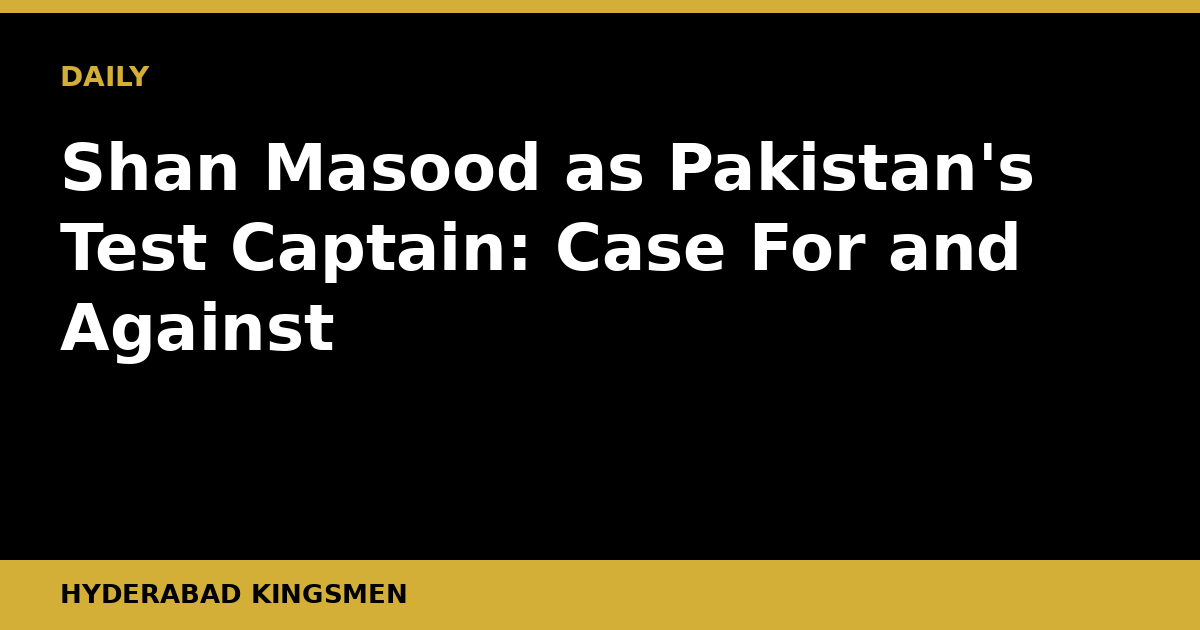
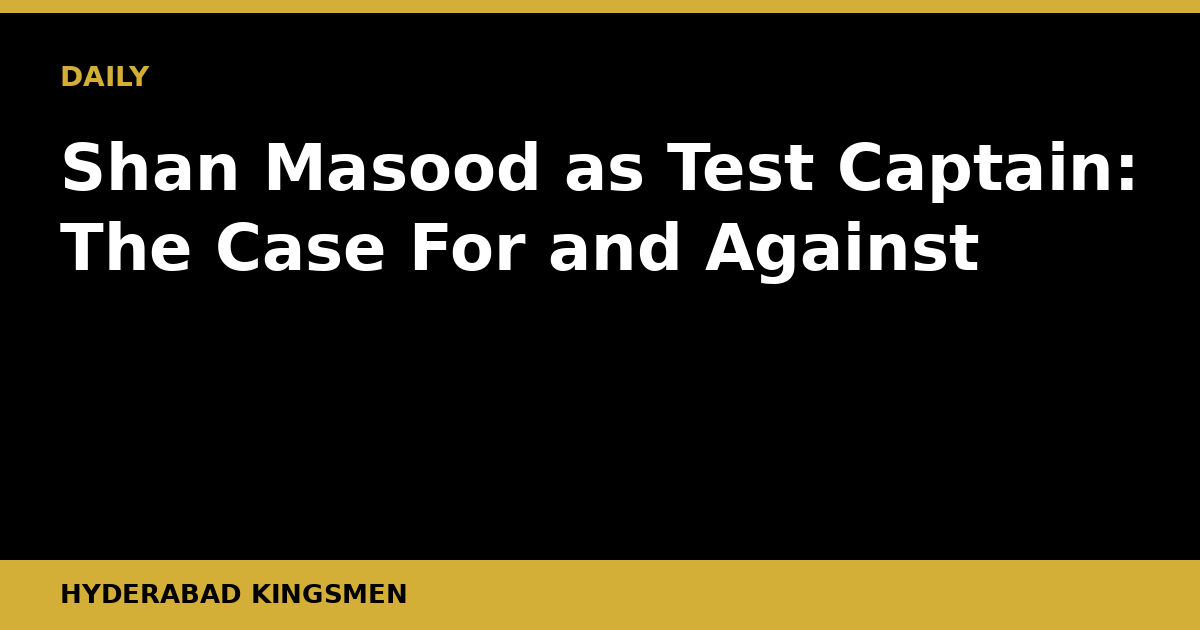
Daily post 2026-08-31

Changed region(s): [[0.0617, 0.3317, 0.8633, 0.4524], [0.555, 0.2111, 0.9558, 0.3317], [0.0308, 0.4825, 0.2775, 0.573]]

diff --git a/content/posts/shan-masood-pakistan-test-captain-case-for-against.md b/content/posts/shan-masood-pakistan-test-captain-case-for-against.md
@@ -1,53 +1,47 @@
 ---
-title: "Shan Masood as Pakistan's Test Captain: Case For and Against"
+title: "Shan Masood as Test Captain: The Case For and Against"
 slug: "shan-masood-pakistan-test-captain-case-for-against"
-date: "2026-07-26T04:22:43+05:00"
+date: "2026-08-31T06:30:13+05:00"
 draft: false
-description: "Shan Masood leads Pakistan into a pivotal WTC 2025-27 cycle. We weigh the arguments for keeping him in charge against the growing calls for change."
+description: "Shan Masood has had a turbulent start as Pakistan's Test captain. We weigh the evidence on both sides before the 2026 WTC final cycle reaches its crunch phase."
 banner: "/banners/shan-masood-pakistan-test-captain-case-for-against.png"
 kicker: "ANALYSIS"
 author: "Hyderabad Kingsmen"
 translationKey: "shan-masood-pakistan-test-captain-case-for-against"
-tags: ["pakistan-cricket", "test-cricket", "shan-masood", "wtc", "pakistan-test-team", "captaincy"]
+tags: ["pakistan-cricket", "test-cricket", "shan-masood", "wtc", "pakistan-test-captaincy", "pcb"]
 categories: ["Analysis"]
 ---
 
-## The Captain at the Crossroads
+Pakistan's Test captaincy has always been a hot seat, but Shan Masood has made it feel volcanic. With the 2025-27 World Test Championship cycle already underway and Pakistan needing results to stay relevant in the standings, the debate around his leadership is no longer a fringe conversation — it is the central one in Pakistan cricket.
 
-Shan Masood inherited a Pakistan Test side mid-rebuild and has presided over one of the most turbulent periods in the country's red-ball history. With the World Test Championship 2025-27 cycle now underway, the question of whether he remains the right man to lead is not an abstract one. It will define Pakistan's standing in Test cricket for the next two years.
+## What This Is Really About
 
-## What This Story Is Really About
-
-This is not simply about results, though results matter enormously. At its core, the debate over Masood's captaincy is about Pakistan cricket's direction. Does the PCB back a leader who is clearly invested in a longer project, or does it reach for a quicker fix in a format where quick fixes rarely work? The last time Pakistan changed Test captains in haste, mid-cycle, the disruption cost them more than the original problem ever would have.
+This is not simply about win-loss records, though those matter. It is about whether Pakistan have found a long-term Test leader capable of rebuilding a team philosophy, or whether they have promoted a technically sound batter who carries the captaincy burden at the cost of both his own form and the team's direction. Masood inherited a squad in transition after Babar Azam's resignation and has had to blood youngsters, manage senior egos and cope with a fragile batting order — often all at once. The question is whether he is the right man to stabilise things, or whether he is being set up to fail.
 
 ## The Case For Shan Masood
 
-Masood came in knowing the job would be hard. Pakistan were, and to a considerable extent still are, a side in structural flux. The batting order has shuffled constantly due to injuries, form concerns, and the broader question of who fits into a genuinely aggressive, intent-driven red-ball philosophy.
+Start with context. Masood took charge at a difficult moment, when Pakistan's Test infrastructure — selection policy, coaching continuity, home conditions — was in visible disarray. He has shown genuine tactical curiosity. He is not a conservative captain in the field; he sets attacking fields, rotates his bowlers thoughtfully and has shown a willingness to back young pace talent rather than defaulting to experience.
 
-His most visible contribution as captain is cultural rather than tactical. He has openly preached proactive batting, encouraging strokeplay even at personal cost to his own averages. That is a harder thing to ask of a dressing room than people acknowledge, and the fact that younger players like Saim Ayub and Abdullah Shafique have expressed themselves more freely is at least partially traceable to that environment.
+His man-management credentials are also worth noting. Several younger players have spoken positively about the dressing room environment under him. He appears to have Khurram Shahzad and Naseem Shah's trust, and he gives his spinners licence to attack rather than merely contain. Those are real leadership qualities, not cosmetic ones.
 
-Masood also brings tactical intelligence. His field placements and bowling changes in the home series against England during the Bazball era, while ultimately insufficient to prevent defeat, showed a captain who thinks the game rather than simply reacts to it. He is not afraid to back spinners on the first morning, or to go for the kill when the opposition is vulnerable.
-
-Perhaps most importantly, he is one of the few senior figures in the Test side who commands universal respect across dressing-room factions. Pakistan dressing rooms have historically fractured along regional and contractual lines. Masood, by temperament, is a unifier.
+Masood is also a gritty, technically organised left-hander whose Test average before captaincy suggested a batter with a genuine long-form game. A lean run with the bat under the captaincy burden does not automatically disqualify him; plenty of respected Test captains have endured difficult personal patches.
 
 ## The Case Against
 
-The results column is difficult to ignore. Pakistan's Test record under Masood has been poor by the side's own historical standards. Home defeats to England and Bangladesh, series losses abroad, and a failure to convert promising positions into victories have accumulated into a pattern that goes beyond bad luck.
+The results, though, are hard to argue away. Pakistan's Test record since Masood took charge has been deeply underwhelming. The home series defeat to Bangladesh — one of the most damaging results in Pakistan Test history — happened on his watch. Defeats in England, then against the same Bangladesh side in familiar conditions, pointed to structural problems that captaincy alone cannot fix, but leadership must still own.
 
-The batting, for all the philosophical ambition, has remained brittle. There is an argument that Masood's own form has suffered because of the captaincy burden. A top-order batter who is mentally carrying the weight of leadership and simultaneously trying to model aggressive intent is playing two roles that can work against each other. His personal averages since taking the captaincy reflect that tension.
+His own batting has become a concern that goes beyond a temporary slump. When a captain is visibly struggling for personal form, it creates a split-focus problem. Masood has too often walked to the crease carrying the pressure of a batting unit that badly needs him to lead from the front with runs, not just words. The combination of poor form at the top of the order and Test losses has made his position feel tenuous even when the PCB has outwardly backed him.
 
-There is also a valid question about whether his tactical instincts translate reliably under pressure. In tight fourth-innings chases, or when Pakistan have needed to defend totals, the captaincy has at times looked reactive rather than proactive. Decision-making in the death, so to speak, has cost Pakistan on several occasions.
+There is also the tactical question of whether he gets the best from Babar Azam now that Babar has returned to the Test fold under him. Managing a former captain who commands enormous public support is a delicate act. Early signs suggested the dynamic is manageable, but it remains an ongoing pressure point that never quite disappears.
 
-And then there is the Babar Azam question, which refuses to go away. Whatever the complications of his leadership in other formats, Babar is still Pakistan's best red-ball batter. The tension between managing his ego and maximising his output sits uneasily in a side that needs every run it can get.
+Finally, Pakistan's WTC points tally leaves them with a mountain to climb if they want a realistic shot at the final. The window for a fresh start narrows with every series played.
 
 ## What It Means Going Forward
 
-The 2025-27 WTC cycle gives Pakistan a genuine opportunity to qualify for the final, but only if they win at home and compete credibly abroad. Both of those things require a captain who has the full backing of the PCB and a settled structure around him. Changing captains now, without a compelling successor ready, would likely cost Pakistan six months of momentum they cannot afford.
+The PCB faces a genuine dilemma. Changing captains mid-cycle rarely solves structural batting or bowling problems, and it risks destabilising whatever dressing room culture Masood has begun to build. But retaining a captain whose authority is visibly eroding risks drifting further down the WTC standings while the opportunity cost of a Babar-led or Mohammad Rizwan-led reset grows.
 
-If Masood is retained, the PCB must also give him greater selector alignment. The chopping and changing of the Test XI has often looked like it comes from above the captain, not from the captain himself. You cannot ask a man to build something and then keep moving the bricks.
+The most pragmatic path is probably to set Masood specific milestones — competitive series results, an improvement in his personal batting returns — rather than offering unconditional tenure. Captains who are being evaluated perform differently from captains who feel secure, and right now Pakistan need both accountability and stability.
 
 ## What to Watch Next
 
-Pakistan's upcoming away assignments will be telling. How Masood sets fields in unfamiliar conditions, whether he trusts his spinners on foreign pitches, and most critically, whether his own batting returns to the form that made him a Test certainty in the first place. A big personal series from him would quiet many of the critics overnight. A continued run of low scores and losses will make the pressure impossible to resist.
-
-The WTC table does not wait for anyone to find their feet.
+Pakistan's upcoming Test assignments will be scrutinised through this lens. Watch Masood's batting numbers closely — a return to consistent scores would silence a significant portion of his critics overnight. Watch, too, how he handles selection calls when Pakistan face a must-win situation. Captains reveal themselves most clearly when the margin for error disappears. The 2026 WTC qualifying picture will sharpen quickly, and Shan Masood's seat will only get hotter as it does.
